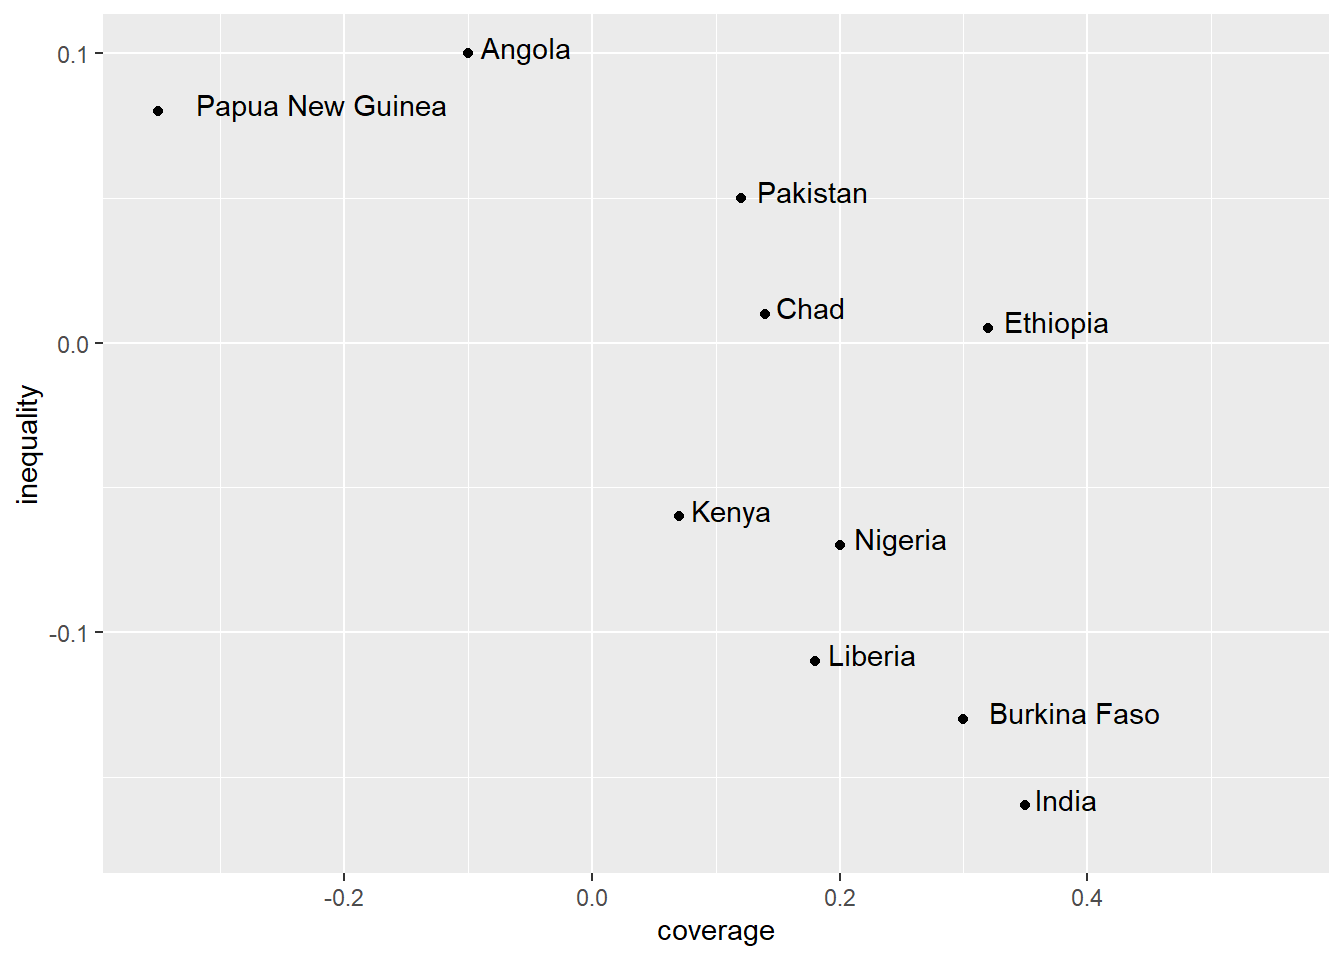
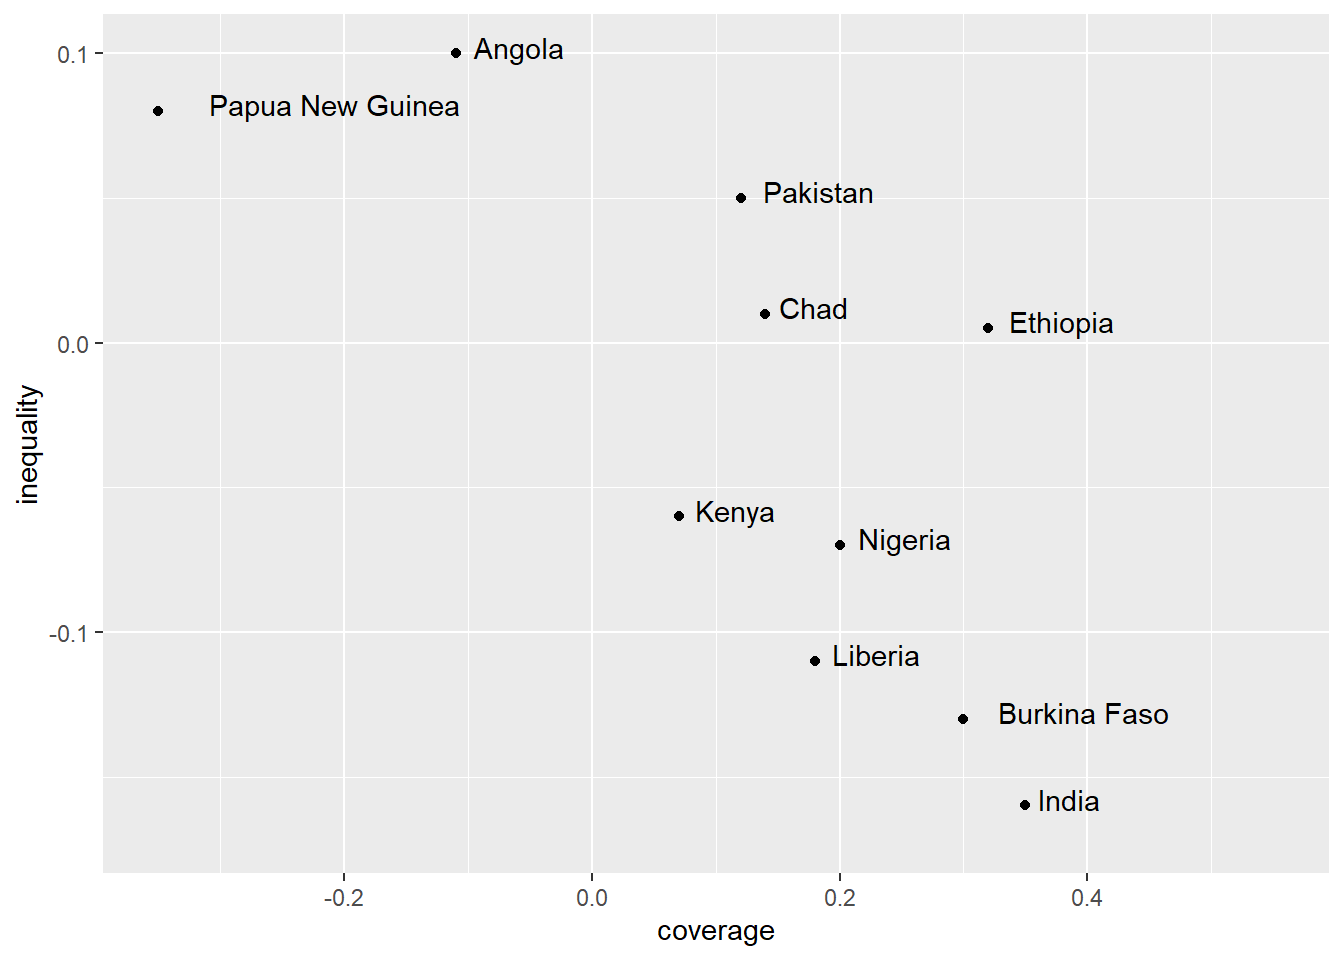
minor update

diff --git a/docs/viz-practice.html b/docs/viz-practice.html
@@ -265,13 +265,13 @@ gtag('config', 'G-RDC0B0FCNZ', { 'anonymize_ip': true});
 <p>Vậy chúng ta cần một data frame có ít nhất 3 cột: (1) tên quốc gia, (2) sự thay đổi độ phủ vaccine, (3) sự thay đổi bất bình đẳng địa lý.</p>
 <div class="cell">
 <div class="sourceCode cell-code" id="cb2"><pre class="sourceCode r code-with-copy"><code class="sourceCode r"><span id="cb2-1"><a href="#cb2-1" aria-hidden="true" tabindex="-1"></a>country <span class="ot">&lt;-</span> <span class="fu">c</span>(<span class="st">"Angola"</span>, <span class="st">"Papua New Guinea"</span>, <span class="st">"Pakistan"</span>, <span class="st">"Chad"</span>, <span class="st">"Ethiopia"</span>, <span class="st">"Kenya"</span>, <span class="st">"Nigeria"</span>, <span class="st">"Liberia"</span>, <span class="st">"Burkina Faso"</span>, <span class="st">"India"</span>)</span>
-<span id="cb2-2"><a href="#cb2-2" aria-hidden="true" tabindex="-1"></a>coverage <span class="ot">&lt;-</span> <span class="fu">c</span>(<span class="sc">-</span><span class="fl">0.1</span>, <span class="sc">-</span><span class="fl">0.35</span>, <span class="fl">0.12</span>, <span class="fl">0.14</span>, <span class="fl">0.32</span>, <span class="fl">0.07</span>, <span class="fl">0.2</span>, <span class="fl">0.18</span>, <span class="fl">0.3</span>, <span class="fl">0.35</span>)</span>
+<span id="cb2-2"><a href="#cb2-2" aria-hidden="true" tabindex="-1"></a>coverage <span class="ot">&lt;-</span> <span class="fu">c</span>(<span class="sc">-</span><span class="fl">0.11</span>, <span class="sc">-</span><span class="fl">0.35</span>, <span class="fl">0.12</span>, <span class="fl">0.14</span>, <span class="fl">0.32</span>, <span class="fl">0.07</span>, <span class="fl">0.2</span>, <span class="fl">0.18</span>, <span class="fl">0.3</span>, <span class="fl">0.35</span>)</span>
 <span id="cb2-3"><a href="#cb2-3" aria-hidden="true" tabindex="-1"></a>inequality <span class="ot">&lt;-</span> <span class="fu">c</span>(<span class="fl">0.1</span>, <span class="fl">0.08</span>, <span class="fl">0.05</span>, <span class="fl">0.01</span>, <span class="fl">0.005</span>, <span class="sc">-</span><span class="fl">0.06</span>, <span class="sc">-</span><span class="fl">0.07</span>, <span class="sc">-</span><span class="fl">0.11</span>, <span class="sc">-</span><span class="fl">0.13</span>, <span class="sc">-</span><span class="fl">0.16</span>)</span>
 <span id="cb2-4"><a href="#cb2-4" aria-hidden="true" tabindex="-1"></a>df_plot <span class="ot">&lt;-</span> <span class="fu">data.frame</span>(country, coverage, inequality)</span>
 <span id="cb2-5"><a href="#cb2-5" aria-hidden="true" tabindex="-1"></a>df_plot</span></code><button title="Copy to Clipboard" class="code-copy-button"><i class="bi"></i></button></pre></div>
 <div class="cell-output cell-output-stdout">
 <pre><code>            country coverage inequality
-1            Angola    -0.10      0.100
+1            Angola    -0.11      0.100
 2  Papua New Guinea    -0.35      0.080
 3          Pakistan     0.12      0.050
 4              Chad     0.14      0.010
@@ -304,7 +304,7 @@ gtag('config', 'G-RDC0B0FCNZ', { 'anonymize_ip': true});
 <div class="cell">
 <div class="sourceCode cell-code" id="cb6"><pre class="sourceCode r code-with-copy"><code class="sourceCode r"><span id="cb6-1"><a href="#cb6-1" aria-hidden="true" tabindex="-1"></a><span class="fu">ggplot</span>(df_plot, <span class="fu">aes</span>(<span class="at">x =</span> coverage, <span class="at">y =</span> inequality)) <span class="sc">+</span></span>
 <span id="cb6-2"><a href="#cb6-2" aria-hidden="true" tabindex="-1"></a>  <span class="fu">geom_point</span>() <span class="sc">+</span></span>
-<span id="cb6-3"><a href="#cb6-3" aria-hidden="true" tabindex="-1"></a>  <span class="fu">geom_text</span>(<span class="fu">aes</span>(<span class="at">label =</span> country), <span class="at">hjust =</span> <span class="sc">-</span><span class="fl">0.15</span>, <span class="at">vjust =</span> <span class="fl">0.2</span>) <span class="sc">+</span></span>
+<span id="cb6-3"><a href="#cb6-3" aria-hidden="true" tabindex="-1"></a>  <span class="fu">geom_text</span>(<span class="fu">aes</span>(<span class="at">label =</span> country), <span class="at">hjust =</span> <span class="sc">-</span><span class="fl">0.2</span>, <span class="at">vjust =</span> <span class="fl">0.2</span>) <span class="sc">+</span></span>
 <span id="cb6-4"><a href="#cb6-4" aria-hidden="true" tabindex="-1"></a>  <span class="fu">xlim</span>(<span class="fu">c</span>(<span class="sc">-</span><span class="fl">0.35</span>, <span class="fl">0.55</span>)) <span class="sc">+</span></span>
 <span id="cb6-5"><a href="#cb6-5" aria-hidden="true" tabindex="-1"></a>  <span class="fu">ylim</span>(<span class="fu">c</span>(<span class="sc">-</span><span class="fl">0.17</span>, <span class="fl">0.1</span>))</span></code><button title="Copy to Clipboard" class="code-copy-button"><i class="bi"></i></button></pre></div>
 <div class="cell-output-display">
@@ -318,7 +318,7 @@ gtag('config', 'G-RDC0B0FCNZ', { 'anonymize_ip': true});
 <span id="cb7-3"><a href="#cb7-3" aria-hidden="true" tabindex="-1"></a>df_plot</span></code><button title="Copy to Clipboard" class="code-copy-button"><i class="bi"></i></button></pre></div>
 <div class="cell-output cell-output-stdout">
 <pre><code>            country coverage inequality size color
-1            Angola    -0.10      0.100  1.1     1
+1            Angola    -0.11      0.100  1.1     1
 2  Papua New Guinea    -0.35      0.080  0.6     2
 3          Pakistan     0.12      0.050  3.0     3
 4              Chad     0.14      0.010  1.0     1
@@ -334,7 +334,7 @@ gtag('config', 'G-RDC0B0FCNZ', { 'anonymize_ip': true});
 <div class="cell">
 <div class="sourceCode cell-code" id="cb9"><pre class="sourceCode r code-with-copy"><code class="sourceCode r"><span id="cb9-1"><a href="#cb9-1" aria-hidden="true" tabindex="-1"></a><span class="fu">ggplot</span>(df_plot, <span class="fu">aes</span>(<span class="at">x =</span> coverage, <span class="at">y =</span> inequality)) <span class="sc">+</span></span>
 <span id="cb9-2"><a href="#cb9-2" aria-hidden="true" tabindex="-1"></a>  <span class="fu">geom_point</span>(<span class="fu">aes</span>(<span class="at">size =</span> size, <span class="at">color =</span> color)) <span class="sc">+</span></span>
-<span id="cb9-3"><a href="#cb9-3" aria-hidden="true" tabindex="-1"></a>  <span class="fu">geom_text</span>(<span class="fu">aes</span>(<span class="at">label =</span> country), <span class="at">hjust =</span> <span class="sc">-</span><span class="fl">0.15</span>, <span class="at">vjust =</span> <span class="fl">0.2</span>) <span class="sc">+</span></span>
+<span id="cb9-3"><a href="#cb9-3" aria-hidden="true" tabindex="-1"></a>  <span class="fu">geom_text</span>(<span class="fu">aes</span>(<span class="at">label =</span> country), <span class="at">hjust =</span> <span class="sc">-</span><span class="fl">0.2</span>, <span class="at">vjust =</span> <span class="fl">0.2</span>) <span class="sc">+</span></span>
 <span id="cb9-4"><a href="#cb9-4" aria-hidden="true" tabindex="-1"></a>  <span class="fu">xlim</span>(<span class="fu">c</span>(<span class="sc">-</span><span class="fl">0.35</span>, <span class="fl">0.55</span>)) <span class="sc">+</span></span>
 <span id="cb9-5"><a href="#cb9-5" aria-hidden="true" tabindex="-1"></a>  <span class="fu">ylim</span>(<span class="fu">c</span>(<span class="sc">-</span><span class="fl">0.17</span>, <span class="fl">0.1</span>))</span></code><button title="Copy to Clipboard" class="code-copy-button"><i class="bi"></i></button></pre></div>
 <div class="cell-output-display">
@@ -376,7 +376,7 @@ gtag('config', 'G-RDC0B0FCNZ', { 'anonymize_ip': true});
 <span id="cb12-2"><a href="#cb12-2" aria-hidden="true" tabindex="-1"></a>df_plot<span class="sc">$</span>color <span class="ot">&lt;-</span> <span class="fu">factor</span>(df_plot<span class="sc">$</span>color)</span>
 <span id="cb12-3"><a href="#cb12-3" aria-hidden="true" tabindex="-1"></a><span class="fu">ggplot</span>(df_plot, <span class="fu">aes</span>(<span class="at">x =</span> coverage, <span class="at">y =</span> inequality)) <span class="sc">+</span></span>
 <span id="cb12-4"><a href="#cb12-4" aria-hidden="true" tabindex="-1"></a>  <span class="fu">geom_point</span>(<span class="fu">aes</span>(<span class="at">size =</span> size, <span class="at">color =</span> color)) <span class="sc">+</span></span>
-<span id="cb12-5"><a href="#cb12-5" aria-hidden="true" tabindex="-1"></a>  <span class="fu">geom_text</span>(<span class="fu">aes</span>(<span class="at">label =</span> country), <span class="at">hjust =</span> <span class="sc">-</span><span class="fl">0.15</span>, <span class="at">vjust =</span> <span class="fl">0.2</span>) <span class="sc">+</span></span>
+<span id="cb12-5"><a href="#cb12-5" aria-hidden="true" tabindex="-1"></a>  <span class="fu">geom_text</span>(<span class="fu">aes</span>(<span class="at">label =</span> country), <span class="at">hjust =</span> <span class="sc">-</span><span class="fl">0.2</span>, <span class="at">vjust =</span> <span class="fl">0.2</span>) <span class="sc">+</span></span>
 <span id="cb12-6"><a href="#cb12-6" aria-hidden="true" tabindex="-1"></a>  <span class="fu">xlim</span>(<span class="fu">c</span>(<span class="sc">-</span><span class="fl">0.35</span>, <span class="fl">0.55</span>)) <span class="sc">+</span></span>
 <span id="cb12-7"><a href="#cb12-7" aria-hidden="true" tabindex="-1"></a>  <span class="fu">ylim</span>(<span class="fu">c</span>(<span class="sc">-</span><span class="fl">0.17</span>, <span class="fl">0.1</span>))</span></code><button title="Copy to Clipboard" class="code-copy-button"><i class="bi"></i></button></pre></div>
 <div class="cell-output-display">
@@ -390,7 +390,7 @@ gtag('config', 'G-RDC0B0FCNZ', { 'anonymize_ip': true});
 <div class="cell">
 <div class="sourceCode cell-code" id="cb13"><pre class="sourceCode r code-with-copy"><code class="sourceCode r"><span id="cb13-1"><a href="#cb13-1" aria-hidden="true" tabindex="-1"></a><span class="fu">ggplot</span>(df_plot, <span class="fu">aes</span>(<span class="at">x =</span> coverage, <span class="at">y =</span> inequality)) <span class="sc">+</span></span>
 <span id="cb13-2"><a href="#cb13-2" aria-hidden="true" tabindex="-1"></a>  <span class="fu">geom_point</span>(<span class="fu">aes</span>(<span class="at">size =</span> size, <span class="at">color =</span> color), <span class="at">alpha =</span> <span class="fl">0.8</span>) <span class="sc">+</span></span>
-<span id="cb13-3"><a href="#cb13-3" aria-hidden="true" tabindex="-1"></a>  <span class="fu">geom_text</span>(<span class="fu">aes</span>(<span class="at">label =</span> country), <span class="at">hjust =</span> <span class="sc">-</span><span class="fl">0.15</span>, <span class="at">vjust =</span> <span class="fl">0.2</span>) <span class="sc">+</span></span>
+<span id="cb13-3"><a href="#cb13-3" aria-hidden="true" tabindex="-1"></a>  <span class="fu">geom_text</span>(<span class="fu">aes</span>(<span class="at">label =</span> country), <span class="at">hjust =</span> <span class="sc">-</span><span class="fl">0.2</span>, <span class="at">vjust =</span> <span class="fl">0.2</span>) <span class="sc">+</span></span>
 <span id="cb13-4"><a href="#cb13-4" aria-hidden="true" tabindex="-1"></a>  <span class="fu">xlim</span>(<span class="fu">c</span>(<span class="sc">-</span><span class="fl">0.35</span>, <span class="fl">0.55</span>)) <span class="sc">+</span></span>
 <span id="cb13-5"><a href="#cb13-5" aria-hidden="true" tabindex="-1"></a>  <span class="fu">ylim</span>(<span class="fu">c</span>(<span class="sc">-</span><span class="fl">0.17</span>, <span class="fl">0.1</span>)) <span class="sc">+</span></span>
 <span id="cb13-6"><a href="#cb13-6" aria-hidden="true" tabindex="-1"></a>  <span class="fu">geom_vline</span>(<span class="at">xintercept =</span> <span class="dv">0</span>) <span class="sc">+</span></span>
